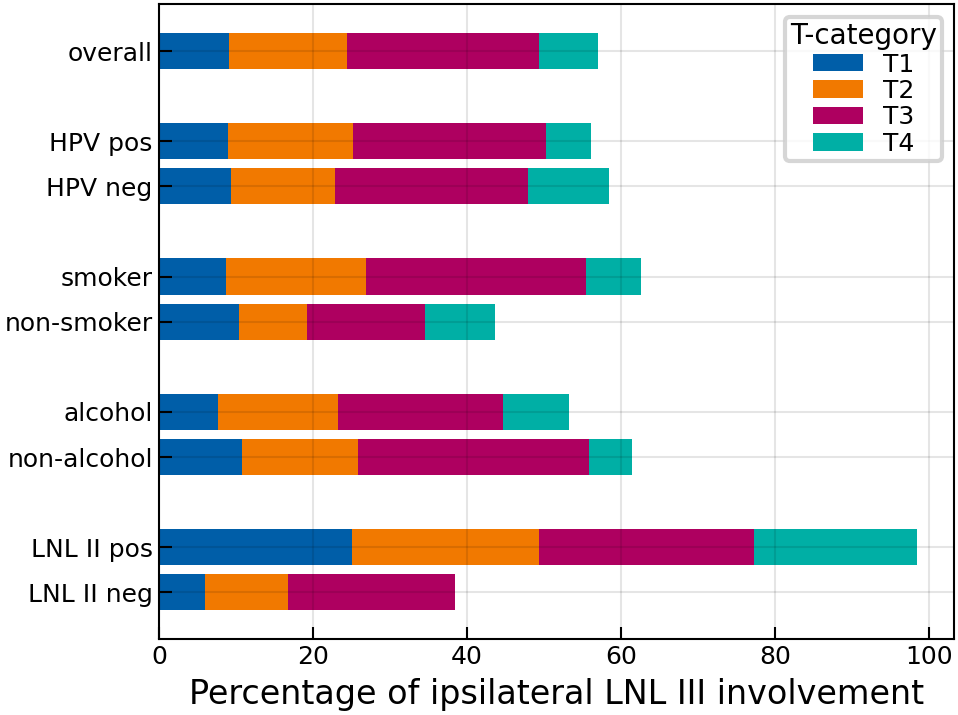
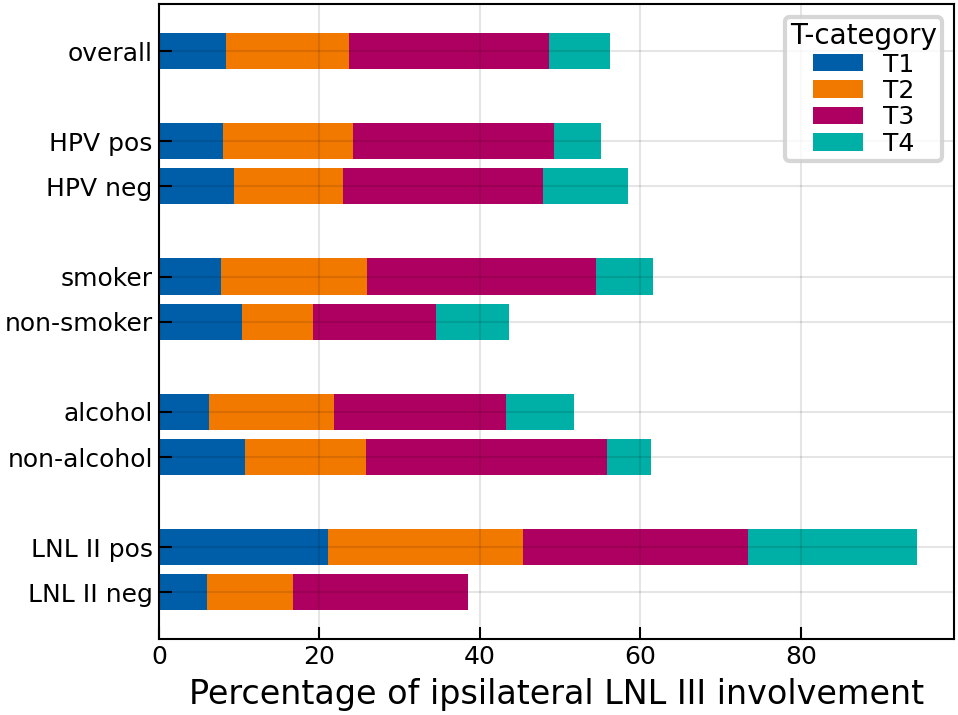
exclude patient w/ adenocarc. (C08.1) from ISB

diff --git a/2023-isb-multisite/README.md b/2023-isb-multisite/README.md
@@ -4,7 +4,7 @@
 > 
 > This is still a work in progress!
 
-This folder contains data about clinically and pathologically diagnosed lymphatic patterns of progression from 333 patients treated at the [Inselspital Bern] between 2001 and 2018.
+This folder contains data about clinically and pathologically diagnosed lymphatic patterns of progression from 332 patients treated at the [Inselspital Bern] between 2001 and 2018.
 
 [Inselspital Bern]: https://www.insel.ch/de/
 
@@ -49,7 +49,7 @@ TODO: needs to be written
 <a id="data-description"></a>
 ## Data Description
 
-The data is provided as a CSV-table containing one row for each of the 333 patients. The table has a header with three levels that describe the columns. Below we explain each column in the form of a list with three levels. So, for example, list entry 1.i.g refers to a column with the three-level header `patient | # | nicotine_abuse` and this column reports about the patient's smoking status.
+The data is provided as a CSV-table containing one row for each of the 332 patients. The table has a header with three levels that describe the columns. Below we explain each column in the form of a list with three levels. So, for example, list entry 1.i.g refers to a column with the three-level header `patient | # | nicotine_abuse` and this column reports about the patient's smoking status.
 
 
 <a id="documentation-of-columns"></a>

diff --git a/2023-clb-multisite/README.md b/2023-clb-multisite/README.md
@@ -4,7 +4,7 @@
 > 
 > This is still a work in progress!
 
-This folder contains the pathology report data on lymphatic involvement in 372 patients with head and neck cancer, diagnosed and treated at the [Centre Léon Bérard] between 2001 and 2018.
+This folder contains the pathology report data on lymphatic involvement in 373 patients with head and neck cancer, diagnosed and treated at the [Centre Léon Bérard] between 2001 and 2018.
 
 The `raw.csv` data does contain patients which are duplicates of the patient records in the `2021-clb-oropharynx` folder, but they have been filtered out in the `data.csv` file.
 
